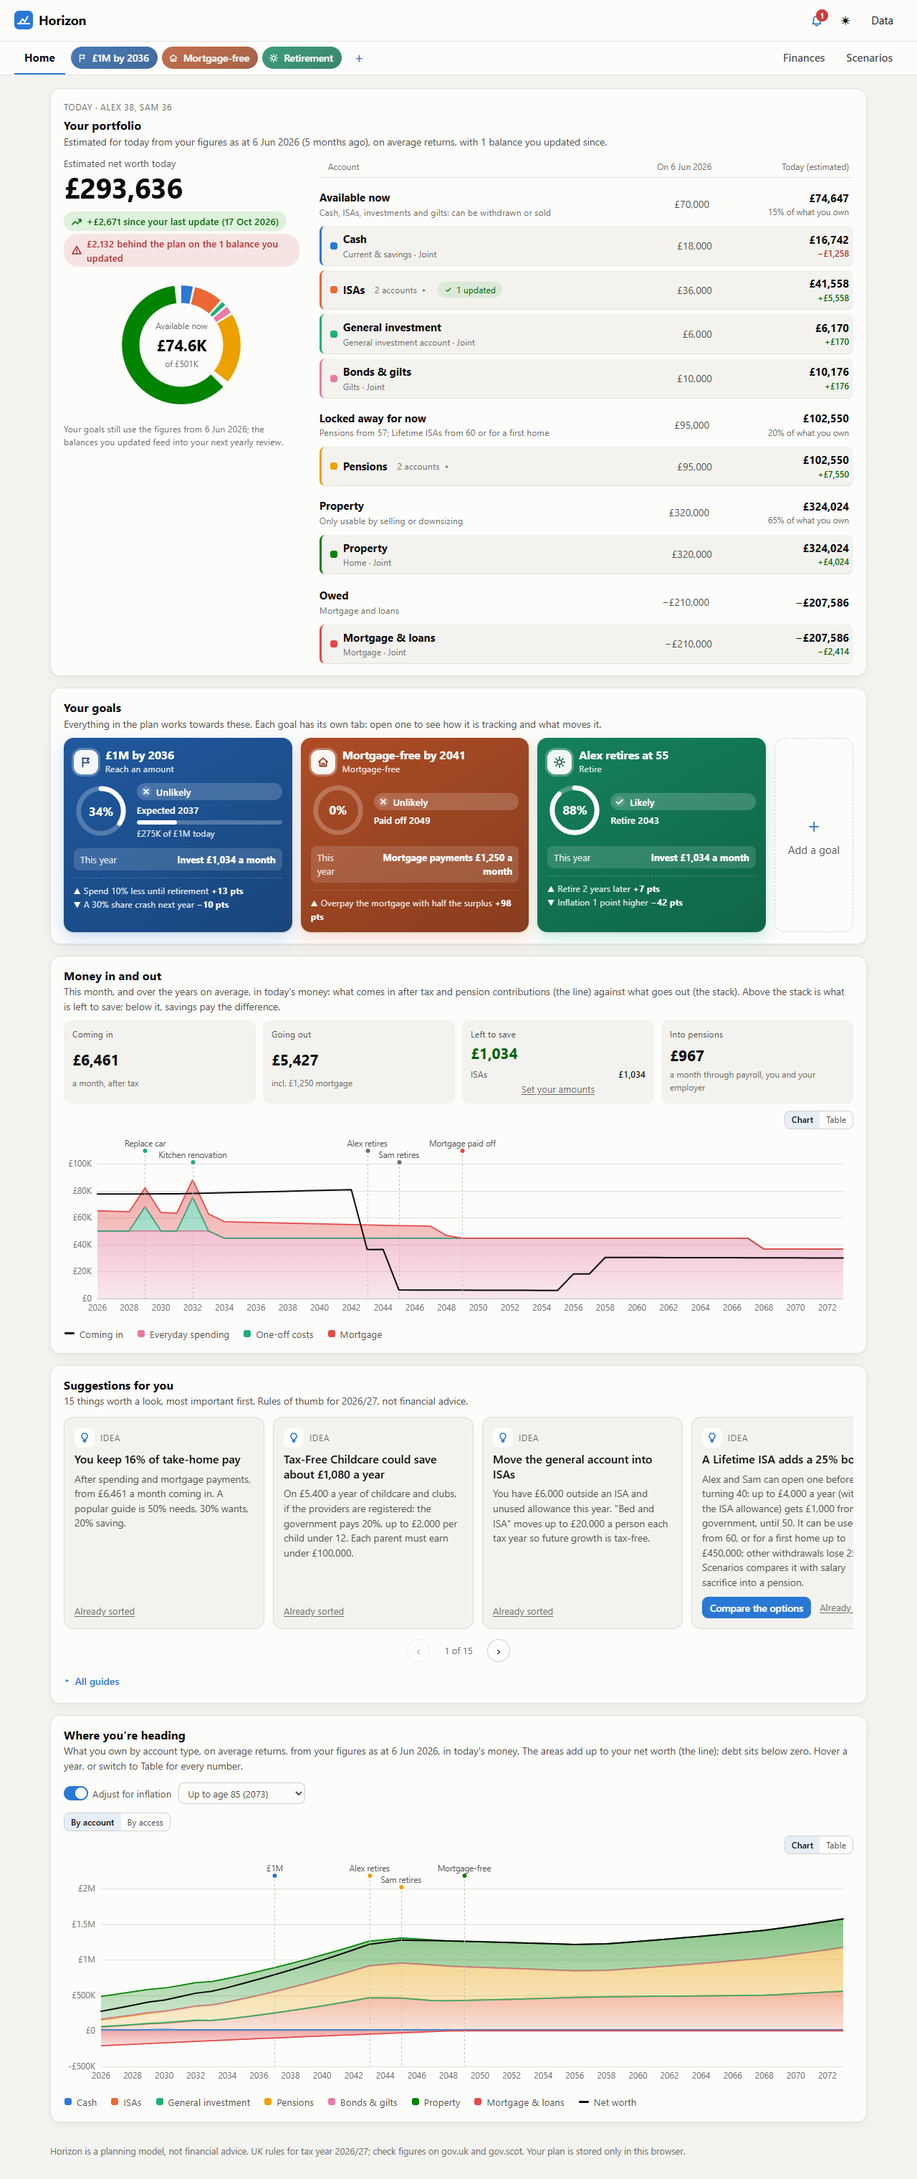
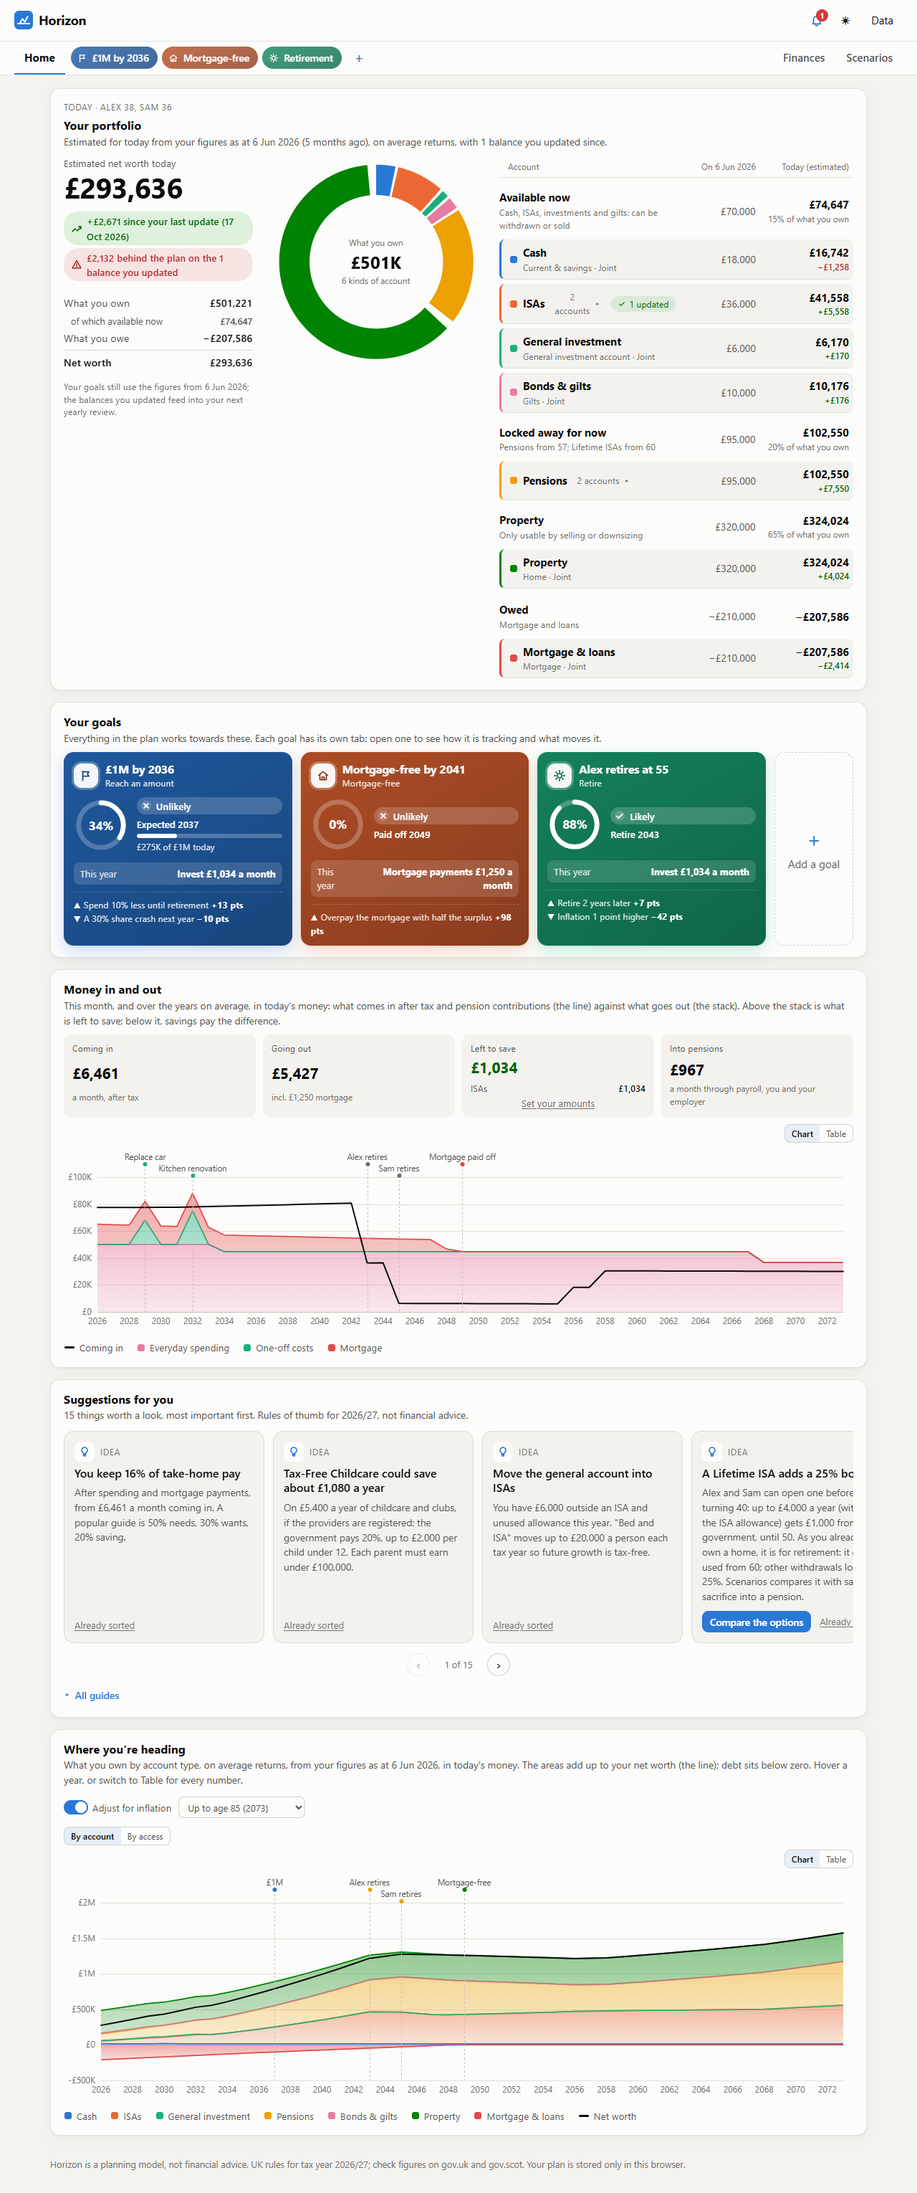
Portfolio: net worth, a bigger interactive donut and the table side by side
- Net worth is worked out beside the donut (what you own, of which available now,
  what you owe), so the figures add up; the donut's centre shows what you own.
- Hover or focus a slice to see its amount and share and light up its row; hovering a
  row lights up its slice; clicking a slice opens that type's accounts.
- Lifetime ISAs are not offered for a first home to people who already own one.

diff --git a/src/app.js b/src/app.js
@@ -392,8 +392,15 @@
     const classTotal = c => c.groups.reduce((x, g) => x + typeTotal(g.key), 0);
     const totalAssets = classes.filter(c => c.key !== 'owed').reduce((acc, c) => acc + classTotal(c), 0);
     const avail = classes.find(c => c.key === 'now');
-    const ring = portfolioDonut(classes.filter(c => c.key !== 'owed').map(c => c.groups.map(g => ({ label: g.label, color: g.color, value: typeTotal(g.key) }))),
-      avail ? classTotal(avail) : 0, totalAssets);
+    const owed = classes.find(c => c.key === 'owed');
+    const totalOwed = owed ? classTotal(owed) : 0;
+    const ring = portfolioDonut(classes.filter(c => c.key !== 'owed').map(c => c.groups.map(g => ({ key: g.key, label: g.label, color: g.color, value: typeTotal(g.key), group: c.label }))),
+      totalAssets, key => {
+        const g = PF_GROUPS.find(x => x.key === key);
+        if (!g || !p.accounts.filter(a => a.type === key).length || p.accounts.filter(a => a.type === key).length === 1) return;
+        if (pfOpen.has(key)) pfOpen.delete(key); else pfOpen.add(key);
+        renderPortfolio();
+      });
     // Accounts under their type, and types under when the money can be used.
     const owner = a => (a.owner === 'joint' ? 'Joint' : (people()[E.personIndex(p, a.owner)] || {}).name || '');
     const signed = (v, debtish) => `${debtish ? '−' : ''}${money(v)}`;
@@ -406,7 +413,7 @@
       // A type with one account is a single row: the type, with the account named under it.
       if (accounts.length === 1) {
         const a = accounts[0];
-        return h('div', { class: `pf-row group single${a.excluded ? ' excluded' : ''}`, role: 'row', 'data-account': a.id, style: `--item-color:${cssVar(g.color)}` },
+        return h('div', { class: `pf-row group single${a.excluded ? ' excluded' : ''}`, role: 'row', 'data-account': a.id, 'data-type': g.key, style: `--item-color:${cssVar(g.color)}` },
           h('span', { class: 'pf-name', role: 'cell' }, h('i', { class: 'key square', style: `--key:${cssVar(g.color)}` }),
             h('span', { class: 'pf-two' }, h('span', {}, h('strong', {}, g.label), updated(est.reading[a.id])),
               h('small', {}, [a.name, owner(a), a.excluded ? 'not counted' : ''].filter(Boolean).join(' · ')))),
@@ -417,7 +424,7 @@
       const nUpdated = accounts.filter(a => est.reading[a.id]).length;
       const toggle = () => { if (open) pfOpen.delete(g.key); else pfOpen.add(g.key); renderPortfolio(); };
       return [
-        h('div', { class: `pf-row group${open ? ' open' : ''}`, role: 'row', style: `--item-color:${cssVar(g.color)}` },
+        h('div', { class: `pf-row group${open ? ' open' : ''}`, role: 'row', 'data-type': g.key, style: `--item-color:${cssVar(g.color)}` },
           h('span', { class: 'pf-name', role: 'cell' }, h('i', { class: 'key square', style: `--key:${cssVar(g.color)}` }), h('strong', {}, g.label),
             accounts.length
               ? h('button', { type: 'button', class: 'pf-toggle', 'aria-expanded': String(open), 'aria-label': `${open ? 'Hide' : 'Show'} the ${accounts.length} ${g.label} accounts`, onclick: toggle },
@@ -478,8 +485,14 @@
             : h('div', { class: `delta ${delta >= 0 ? 'pos' : 'neg'}` }, glyph(delta >= 0 ? 'trend' : 'trend-down'), `${delta >= 0 ? '+' : '−'}${money(Math.abs(delta))} since your last update (${fmtDate(lastUpdate)})`),
           readings && Math.abs(vsPlan) >= 1 ? h('div', { class: `delta vs-plan ${vsPlan >= 0 ? 'pos' : 'neg'}`, id: 'pfVsPlan' }, glyph(vsPlan >= 0 ? 'good' : 'warn'),
             `${money(Math.abs(vsPlan))} ${vsPlan >= 0 ? 'ahead of' : 'behind'} the plan on the ${readings} balance${readings === 1 ? '' : 's'} you updated`) : null),
-        h('div', { class: 'pf-mix' }, ring),
+        // How the net worth is made up, so the numbers add up.
+        h('dl', { class: 'pf-sum', id: 'pfSum' },
+          h('div', {}, h('dt', {}, 'What you own'), h('dd', {}, money(totalAssets))),
+          avail ? h('div', { class: 'sub-line' }, h('dt', {}, 'of which available now'), h('dd', {}, money(classTotal(avail)))) : null,
+          h('div', {}, h('dt', {}, 'What you owe'), h('dd', {}, `−${money(totalOwed)}`)),
+          h('div', { class: 'total' }, h('dt', {}, 'Net worth'), h('dd', {}, money(totalAssets - totalOwed)))),
         readings ? h('p', { class: 'hint' }, `Your goals still use the figures from ${fmtDate(est.asOf)}; the balances you updated feed into your next yearly review.`) : null),
+      h('div', { class: 'pf-mix' }, ring),
       list),
     ].filter(Boolean));
   }
@@ -491,36 +504,59 @@
     return [
       { key: 'now', label: 'Available now', types: ['cash', 'isa', 'gia', 'bonds'], note: 'Cash, ISAs, investments and gilts: can be withdrawn or sold' },
       { key: 'locked', label: 'Locked away for now', types: ['pension', 'lisa'],
-        note: `Pensions from ${ages}${drawing.length ? ` (${drawing.join(' and ')} can draw now)` : ''}; Lifetime ISAs from 60 or for a first home` },
+        note: `Pensions from ${ages}${drawing.length ? ` (${drawing.join(' and ')} can draw now)` : ''}; Lifetime ISAs from 60${E.ownsHome(plan()) ? '' : ' or for a first home'}` },
       { key: 'property', label: 'Property', types: ['property'], note: 'Only usable by selling or downsizing' },
       { key: 'owed', label: 'Owed', types: ['debt'], note: 'Mortgage and loans' },
     ];
   }
 
   // A donut of what you own: one ring of types, grouped (a wider gap) by when they can be used.
-  function portfolioDonut(groups, available, total) {
+  // Hover or focus a slice: it stands out, the centre gives its details and its row lights up.
+  function portfolioDonut(groups, total, onPick) {
     const NS = 'http://www.w3.org/2000/svg';
-    const R = 52, W = 18, C = 2 * Math.PI * R;
+    const R = 54, W = 20, C = 2 * Math.PI * R;
     const svg = document.createElementNS(NS, 'svg');
     svg.setAttribute('viewBox', '0 0 140 140');
     svg.setAttribute('class', 'pf-donut-svg');
-    svg.setAttribute('aria-hidden', 'true');
-    const items = groups.flatMap((g, gi) => g.filter(x => x.value > 0.5).map((x, i) => ({ ...x, gap: i === 0 && gi > 0 ? 6 : 2 })));
+    const items = groups.flatMap((g, gi) => g.filter(x => x.value > 0.5).map((x, i) => ({ ...x, gap: i === 0 && gi > 0 ? 5 : 1.6 })));
     const gaps = items.length > 1 ? items.reduce((acc, x) => acc + x.gap, 0) : 0;
+    const label = h('small', {}, 'What you own'), value = h('strong', {}, fmtCompact(total)), note = h('small', {}, `${items.length} kinds of account`);
+    const centre = h('div', { class: 'pf-donut-centre', 'aria-live': 'polite' }, label, value, note);
+    const arcs = [];
+    const show = x => {
+      for (const a of arcs) { a.el.classList.toggle('on', a.x === x); a.el.classList.toggle('dim', !!x && a.x !== x); }
+      for (const row of $$('#homePortfolio .pf-row[data-type]')) row.classList.toggle('hl', !!x && row.dataset.type === x.key);
+      if (x) { label.textContent = x.label; value.textContent = money(x.value); note.textContent = `${Math.round((x.value / Math.max(1, total)) * 100)}% of what you own · ${x.group.toLowerCase()}`; }
+      else { label.textContent = 'What you own'; value.textContent = fmtCompact(total); note.textContent = `${items.length} kinds of account`; }
+    };
     let at = 0;
     for (const x of items) {
       const len = Math.max(0.5, (x.value / Math.max(1, total)) * (C - gaps));
       const c = document.createElementNS(NS, 'circle');
       for (const [k, v] of [['cx', 70], ['cy', 70], ['r', R], ['fill', 'none'], ['stroke', cssVar(x.color)], ['stroke-width', W],
-        ['stroke-dasharray', `${len} ${C - len}`], ['stroke-dashoffset', -at], ['transform', 'rotate(-90 70 70)']]) c.setAttribute(k, String(v));
-      const t = document.createElementNS(NS, 'title');
-      t.textContent = `${x.label}: ${money(x.value)}`;
-      c.append(t);
+        ['stroke-dasharray', `${len} ${C - len}`], ['stroke-dashoffset', -at], ['transform', 'rotate(-90 70 70)'],
+        ['tabindex', 0], ['role', 'img'], ['aria-label', `${x.label}: ${money(x.value)}, ${Math.round((x.value / Math.max(1, total)) * 100)}% of what you own`], ['data-type', x.key], ['class', 'arc']]) c.setAttribute(k, String(v));
+      c.addEventListener('pointerenter', () => show(x));
+      c.addEventListener('focus', () => show(x));
+      c.addEventListener('pointerleave', () => show(null));
+      c.addEventListener('blur', () => show(null));
+      c.addEventListener('click', () => onPick && onPick(x.key));
+      c.addEventListener('keydown', e => { if (e.key === 'Enter' || e.key === ' ') { e.preventDefault(); if (onPick) onPick(x.key); } });
+      arcs.push({ x, el: c });
       svg.append(c);
       at += len + (items.length > 1 ? x.gap : 0);
     }
-    return h('div', { class: 'pf-donut', role: 'img', 'aria-label': `${money(available)} of the ${money(total)} you own is available now` }, svg,
-      h('div', { class: 'pf-donut-centre' }, h('small', {}, 'Available now'), h('strong', {}, fmtCompact(available)), h('small', {}, `of ${fmtCompact(total)}`)));
+    const box = h('div', { class: 'pf-donut', role: 'group', 'aria-label': `What you own, ${money(total)}, by kind of account` }, svg, centre);
+    // The table points back: hovering a row lights up its slice.
+    requestAnimationFrame(() => {
+      for (const row of $$('#homePortfolio .pf-row[data-type]')) {
+        const x = items.find(i => i.key === row.dataset.type);
+        if (!x) continue;
+        row.addEventListener('pointerenter', () => show(x));
+        row.addEventListener('pointerleave', () => show(null));
+      }
+    });
+    return box;
   }
 
   // ---- home: this year (what to do now and what is coming)
@@ -3190,7 +3226,7 @@
     add('2. Workplace pension match', 'In full', 'Pay at least what your employer matches: their contribution is free money. Check your payslip or scheme rules.');
     const lisaPeople = people().filter(x => x.age >= 18 && x.age < R.LISA.payUntil && (x.age < R.LISA.openBefore || p.accounts.some(a => a.type === 'lisa' && a.owner === x.id)));
     if (lisaPeople.length) {
-      add('3. Lifetime ISA', `${money(R.LISA.maxContribution / 12)} a month each`, `${lisaPeople.map(x => x.name).join(' and ')} can get a 25% bonus (${money(R.LISA.maxContribution * R.LISA.bonus)} a year each) until 50, usable from 60 or for a first home. Good if you won’t need it before 60.`,
+      add('3. Lifetime ISA', `${money(R.LISA.maxContribution / 12)} a month each`, `${lisaPeople.map(x => x.name).join(' and ')} can get a 25% bonus (${money(R.LISA.maxContribution * R.LISA.bonus)} a year each) until 50, usable from 60${E.ownsHome(p) ? '' : ' or for a first home'}. Good if you won’t need it before 60.`,
         ['Compare with salary sacrifice', () => openComparison('sacrifice-lisa')]);
     }
     // Pension relief for anyone paying higher-rate tax: the pay above the higher-rate threshold.
@@ -3722,7 +3758,8 @@
       if (E.OWNED_TYPES.includes(a.type)) main.push(field('Whose', selectInput(ownerOptions(false), ...bind(a, 'owner'))));
       if (a.type === 'lisa') {
         main.push(field('Pay in each year', moneyInput(...bind(a, 'contribution')), `Up to ${money(R.LISA.maxContribution)}; the government adds 25%. Paid from your surplus before other ISAs, until 50.`));
-        extra.push(field('Saving for', selectInput([['retirement', 'Retirement (from 60)'], ['home', 'A first home']], ...bind(a, 'purpose'), { rerender: 'accounts' })));
+        // Only someone who has never owned a home can use it for one.
+        if (!E.ownsHome(plan()) || a.purpose === 'home') extra.push(field('Saving for', selectInput([['retirement', 'Retirement (from 60)'], ['home', 'A first home']], ...bind(a, 'purpose'), { rerender: 'accounts' })));
         if (a.purpose === 'home') extra.push(field('Buying in', numInput(...bind(a, 'homeYear'), { min: plan().startYear, max: plan().startYear + 40, label: 'First home year' }), `Paid out that year with no charge if the home costs up to ${money(R.LISA.homePriceCap)}. Add the purchase itself as a one-off event.`));
         extra.push(h('p', { class: 'hint' }, `Withdrawals before 60 for anything else lose 25%, so the plan only uses it that way as a last resort. It counts within the ${money(R.ISA_ALLOWANCE)} ISA allowance and must be opened before 40.`));
       }

diff --git a/test/e2e/app.spec.js b/test/e2e/app.spec.js
@@ -25,7 +25,34 @@ test.describe('Horizon app', () => {
     await expect(page.locator('#homePortfolio')).toContainText('Estimated net worth today');
     // A donut, and the accounts grouped by when the money can be used.
     await expect(page.locator('#homePortfolio .pf-donut circle')).toHaveCount(6);
-    await expect(page.locator('#homePortfolio .pf-donut')).toContainText('Available now');
+    await expect(page.locator('#homePortfolio .pf-donut')).toContainText('What you own');
+    // Net worth is worked out beside it, so the figures add up.
+    await expect(page.locator('#pfSum')).toContainText('What you own');
+    await expect(page.locator('#pfSum')).toContainText('What you owe');
+    await expect(page.locator('#pfSum .total')).toContainText(await page.locator('#homePortfolio .hero-value').innerText());
+    // Hover a slice: the centre gives its details and its row lights up; leave and it resets.
+    // Move the mouse onto the middle of the property slice.
+    const at = await page.locator('#homePortfolio .pf-donut .arc[data-type="property"]').evaluate(c => {
+      const svg = c.ownerSVGElement, r = +c.getAttribute('r'), C = 2 * Math.PI * r;
+      const len = parseFloat(c.getAttribute('stroke-dasharray')), off = -parseFloat(c.getAttribute('stroke-dashoffset'));
+      const a = ((off + len / 2) / C) * 2 * Math.PI - Math.PI / 2;
+      const box = svg.getBoundingClientRect(), k = box.width / 140;
+      return { x: box.left + (70 + r * Math.cos(a)) * k, y: box.top + (70 + r * Math.sin(a)) * k };
+    });
+    await page.mouse.move(at.x, at.y);
+    await expect(page.locator('#homePortfolio .pf-donut-centre')).toContainText('% of what you own');
+    await expect(page.locator('#homePortfolio .pf-row.hl[data-type="property"]')).toHaveCount(1);
+    await page.locator('#homePortfolio .hero-value').hover();
+    await expect(page.locator('#homePortfolio .pf-donut-centre')).toContainText('What you own');
+    await expect(page.locator('#homePortfolio .pf-row.hl')).toHaveCount(0);
+    // Clicking the ISAs slice opens its accounts.
+    await page.locator('#homePortfolio .pf-donut .arc[data-type="isa"]').focus();
+    await page.keyboard.press('Enter');
+    await expect(page.locator('#homePortfolio .pf-row.acct').first()).toBeVisible();
+    await page.locator('#homePortfolio .pf-donut .arc[data-type="isa"]').focus();
+    await page.keyboard.press('Enter');
+    // A homeowner's Lifetime ISA is for retirement only.
+    await expect(page.locator('#homePortfolio .pf-row.access.locked')).not.toContainText('first home');
     await expect(page.locator('#homePortfolio .pf-row.access')).toHaveCount(4);
     await expect(page.locator('#homePortfolio .pf-row.access.now')).toContainText('% of what you own');
     await expect(page.locator('#homePortfolio .pf-row.access.locked')).toContainText('Pensions from 57');
@@ -1079,8 +1106,9 @@ test.describe('Horizon app', () => {
     const item = page.locator('#sec-accounts .item').last();
     await expect(item).toContainText('Pay in each year');
     await item.locator('details.more summary').click();
-    await item.locator('select').filter({ hasText: 'A first home' }).selectOption('home');
-    await expect(item.locator('input[aria-label="First home year"]')).toBeVisible();
+    // The example owns a home, so a first home is not offered.
+    await expect(item.locator('select').filter({ hasText: 'A first home' })).toHaveCount(0);
+    await expect(item).toContainText('Withdrawals before 60');
     await tab(page, 'home');
     await openGoal(page, '£1M by');
     await expect(page.locator('#gpYear')).toContainText('Lifetime ISAs');

diff --git a/src/styles.css b/src/styles.css
@@ -1361,6 +1361,37 @@ dialog#updateDlg::backdrop { background: rgba(0, 0, 0, 0.45); }
 .sg-foot { margin-top: 2px; }
 @media (max-width: 640px) { .goal-strip { display: grid; } .io-fig.left { grid-column: auto; } }
 
+/* portfolio: net worth, donut and table side by side */
+.pf-body { grid-template-columns: minmax(220px, 0.8fr) minmax(260px, 0.9fr) minmax(0, 1.5fr); gap: 24px; }
+.pf-body > .pf-mix { align-self: start; position: sticky; top: 84px; }
+.pf-donut { width: min(320px, 100%); height: auto; aspect-ratio: 1; }
+.pf-donut-svg .arc { cursor: pointer; transition: stroke-width 0.15s ease, opacity 0.15s ease; outline: none; }
+.pf-donut-svg .arc.on, .pf-donut-svg .arc:focus-visible { stroke-width: 26; }
+.pf-donut-svg .arc.dim { opacity: 0.35; }
+.pf-donut-centre { padding: 0 22%; pointer-events: none; }
+.pf-donut-centre strong { font-size: 1.5rem; }
+.pf-donut-centre small { line-height: 1.3; }
+.pf-row.hl { background: var(--accent-soft) !important; }
+.pf-sum { margin: 6px 0 0; display: grid; gap: 4px; width: 100%; font-size: 0.9rem; }
+.pf-sum > div { display: flex; justify-content: space-between; gap: 10px; }
+.pf-sum dt { color: var(--text-2); }
+.pf-sum dd { margin: 0; font-variant-numeric: tabular-nums; font-weight: 600; }
+.pf-sum .sub-line { font-size: 0.8rem; padding-left: 10px; }
+.pf-sum .sub-line dd { font-weight: 500; color: var(--text-2); }
+.pf-sum .total { border-top: 1px solid var(--border-strong); padding-top: 6px; margin-top: 2px; }
+.pf-sum .total dt { color: var(--text); font-weight: 600; }
+@media (max-width: 1150px) {
+  .pf-body { grid-template-columns: minmax(240px, 0.9fr) minmax(0, 1.4fr); }
+  .pf-body > .pf-mix { grid-column: 1; grid-row: 2; position: static; }
+  .pf-body > .pf-list { grid-column: 2; grid-row: 1 / span 2; }
+}
+@media (max-width: 900px) {
+  .pf-body { grid-template-columns: 1fr; }
+  .pf-body > .pf-mix, .pf-body > .pf-list { grid-column: auto; grid-row: auto; }
+}
+
+.pf-toggle { white-space: nowrap; }
+
 @media (prefers-reduced-motion: reduce) {
   *, *::before, *::after { transition: none !important; animation: none !important; }
 }

diff --git a/src/benchmarks.js b/src/benchmarks.js
@@ -260,8 +260,9 @@
     const eligible = plan.household.people.filter(x => x.age < R.LISA.openBefore && !lisaOwners.has(x.id));
     if (eligible.length) {
       const house = plan.goals.some(g => g.icon === 'home');
+      const owner = plan.accounts.some(a => a.type === 'property' && !a.excluded && a.balance > 0);
       out.push({ id: 'lisa', tone: 'tip', title: 'A Lifetime ISA adds a 25% bonus', action: 'compare:sacrifice-lisa',
-        text: `${eligible.map(x => x.name).join(' and ')} can open one before turning 40: up to ${money(R.LISA.maxContribution)} a year (within the ISA allowance) gets ${money(R.LISA.maxContribution * R.LISA.bonus)} from the government, until 50. It can be used from 60, or ${house ? 'for your first home (up to £450,000)' : 'for a first home up to £450,000'}; other withdrawals lose 25%. Scenarios compares it with salary sacrifice into a pension.` });
+        text: `${eligible.map(x => x.name).join(' and ')} can open one before turning 40: up to ${money(R.LISA.maxContribution)} a year (within the ISA allowance) gets ${money(R.LISA.maxContribution * R.LISA.bonus)} from the government, until 50. ${owner ? 'As you already own a home, it is for retirement: it can be used from 60' : `It can be used from 60, or ${house ? 'for your first home (up to £450,000)' : 'for a first home up to £450,000'}`}; other withdrawals lose 25%. Scenarios compares it with salary sacrifice into a pension.` });
     }
 
     // 10. Life check-up

diff --git a/src/engine.js b/src/engine.js
@@ -1805,6 +1805,9 @@
     return p;
   }
 
+  // A Lifetime ISA can only buy a first home: not for anyone who already owns one.
+  const ownsHome = plan => plan.accounts.some(a => a.type === 'property' && !a.excluded && a.balance > 0);
+
   // The person a retirement goal is about.
   const retiree = (plan, goal) => plan.household.people.find(x => x.id === goal.owner) || plan.household.people[0];
 
@@ -2044,7 +2047,7 @@
     goalValue, goalTarget, goalYear, debtFreeYear, goalTitle, autoTitle, evaluateGoals, statusOf, assignGoalColours, GOAL_ICONS, crashAt,
     monteCarlo, successRate, streamBands, historicalEcon, historicalRuns,
     solveRetirement, solveSpending, solveRetirementSpending, solveDebtFree, solveNetWorth,
-    shiftRetirement, retiree, scaleSpending, variant, summarize, sweep,
+    shiftRetirement, retiree, ownsHome, scaleSpending, variant, summarize, sweep,
     makeCheckin, checkinReview, rollForward,
     mulberry32, makeNormal, lognormal, percentile, clonePlan, grossUp,
   };

diff --git a/test/unit/review-benchmarks.test.js b/test/unit/review-benchmarks.test.js
@@ -181,3 +181,16 @@ test('plan check: emergency fund, children and the £100k trap', () => {
   list = B.insights(r, E.project(r));
   assert.ok(list.some(i => i.id.startsWith('trap-') && i.tone === 'warn'));
 });
+
+test('a Lifetime ISA is only offered for a first home to people who do not own one', () => {
+  const E2 = require('../../src/engine');
+  const B2 = require('../../src/benchmarks');
+  const p = E2.defaultPlan(2026);   // owns a home
+  assert.equal(E2.ownsHome(p), true);
+  const tip = B2.insights(p, E2.project(p)).find(i => i.id === 'lisa');
+  assert.match(tip.text, /already own a home/);
+  assert.doesNotMatch(tip.text, /first home up to/);
+  const renter = E2.normalizePlan({ ...p, accounts: p.accounts.filter(a => a.type !== 'property' && a.type !== 'debt') });
+  assert.equal(E2.ownsHome(renter), false);
+  assert.match(B2.insights(renter, E2.project(renter)).find(i => i.id === 'lisa').text, /first home up to/);
+});
